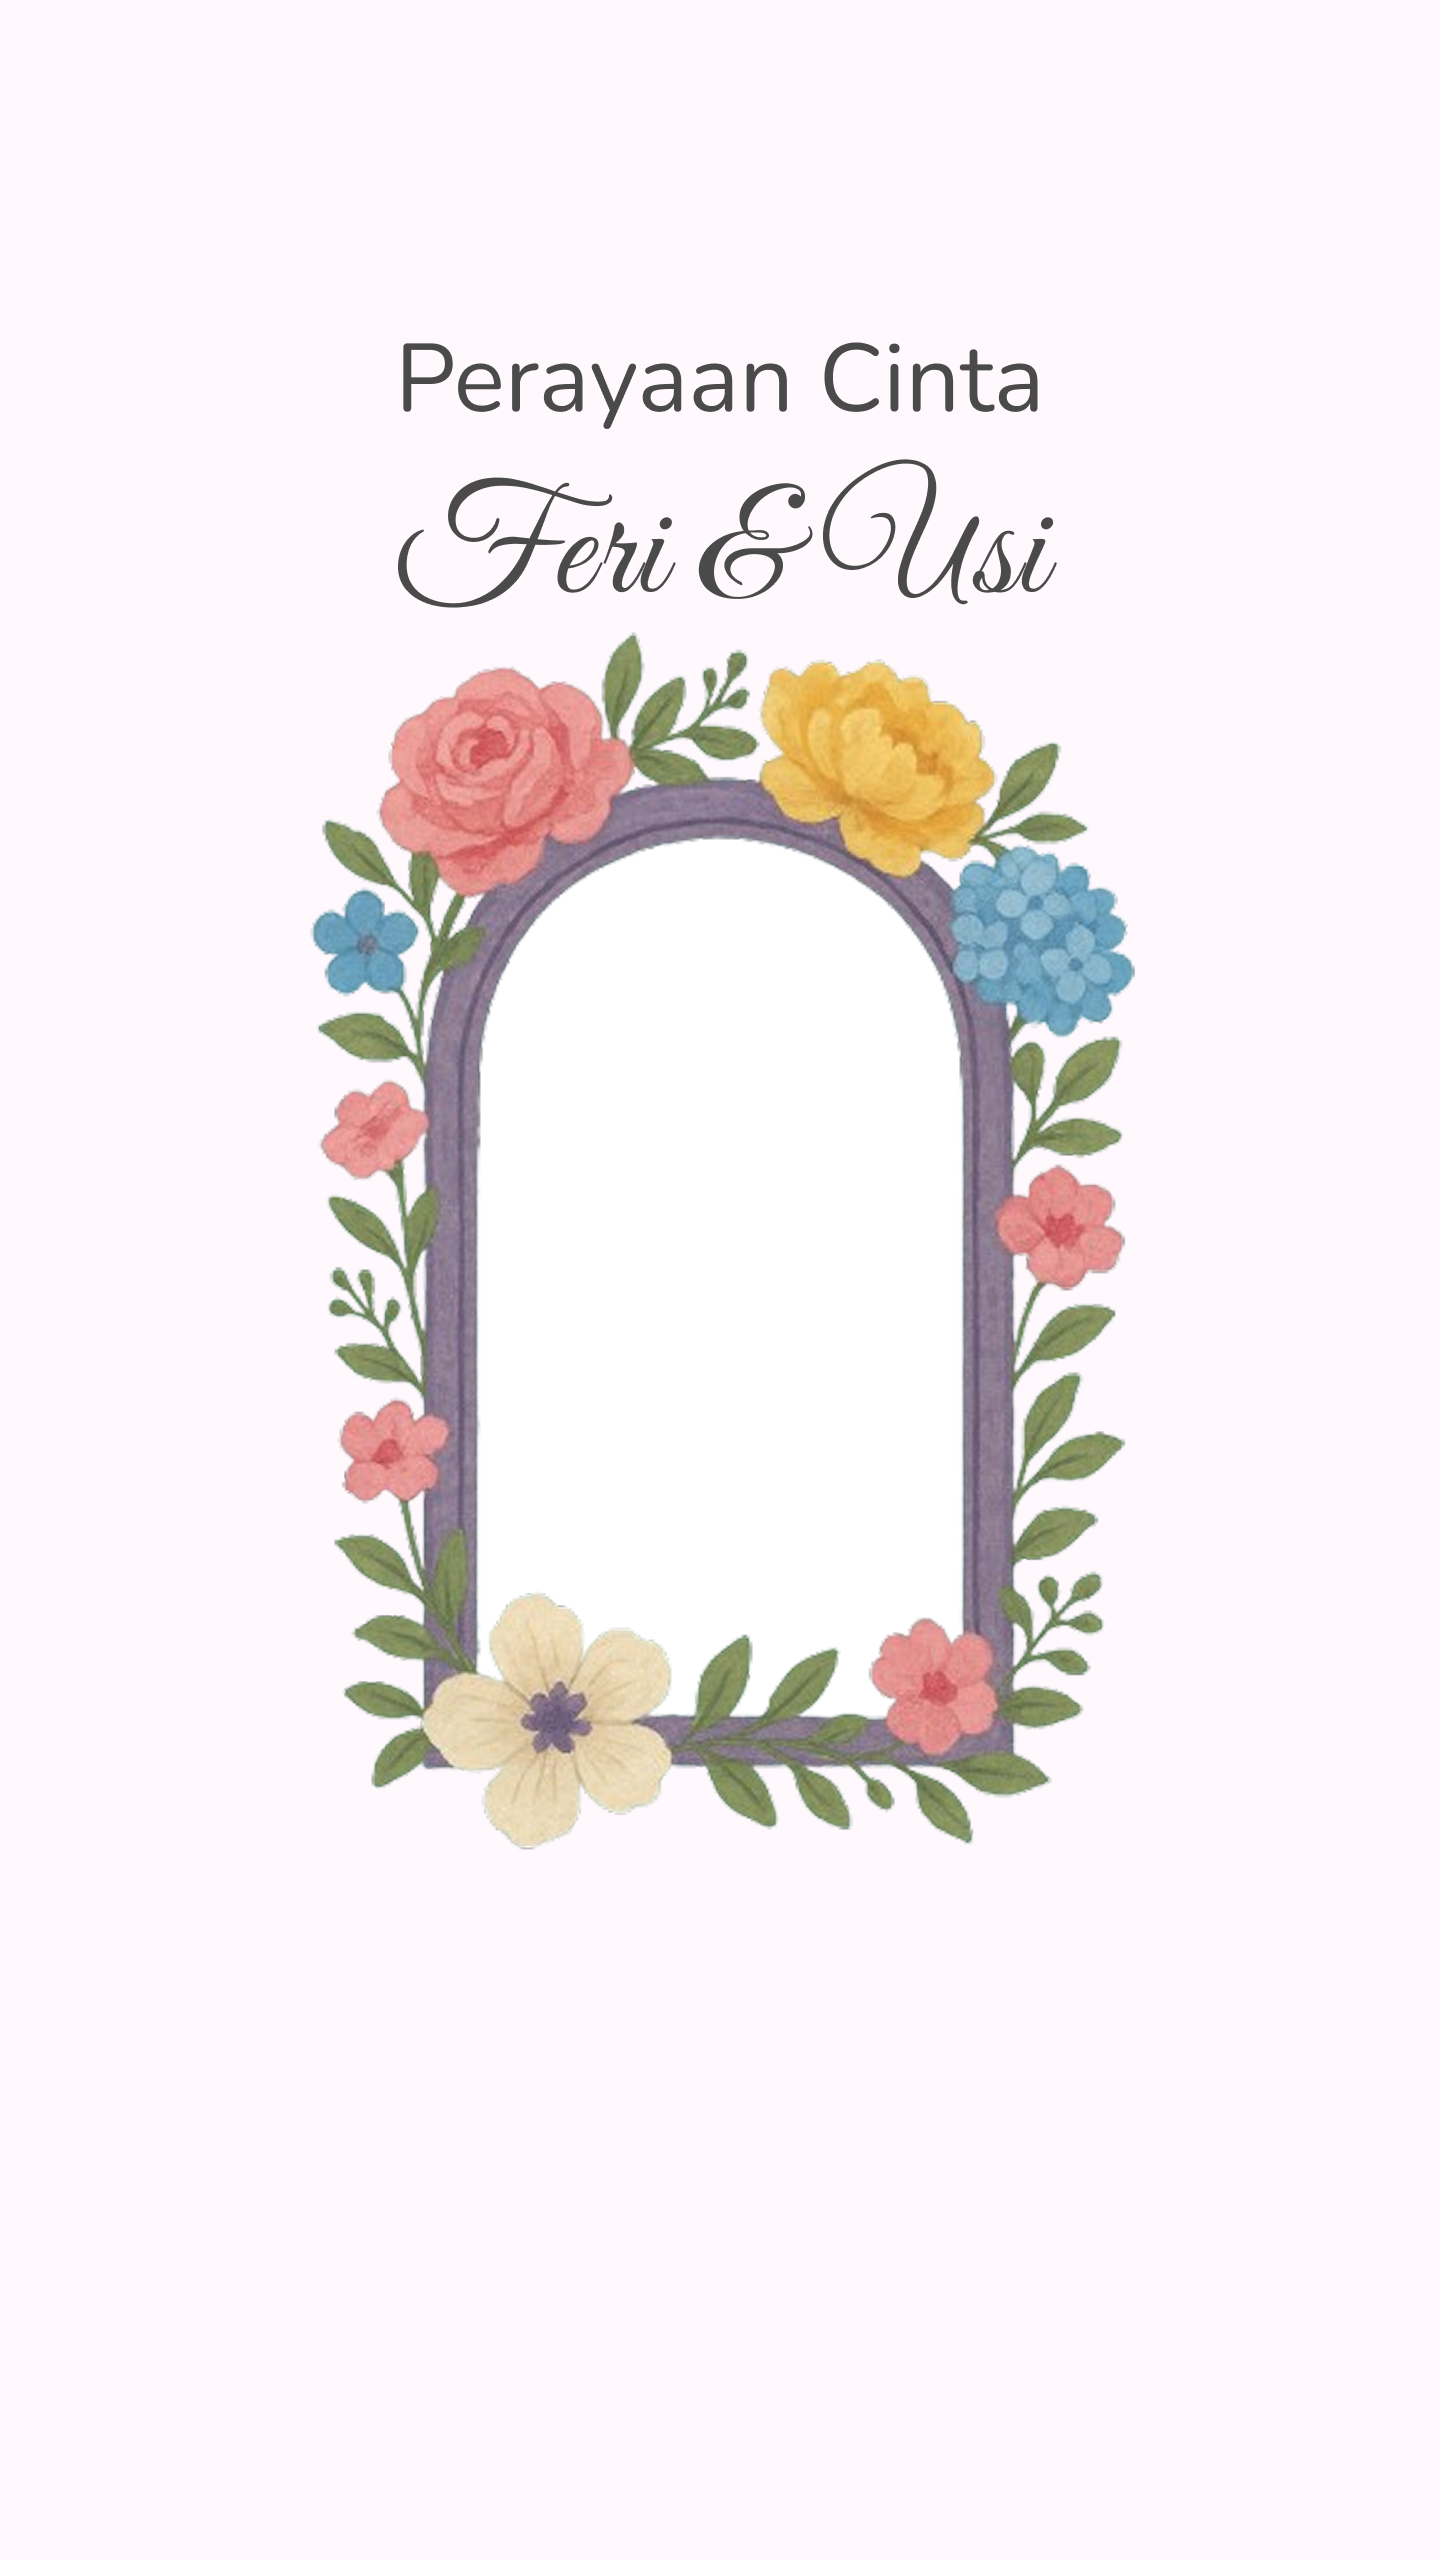
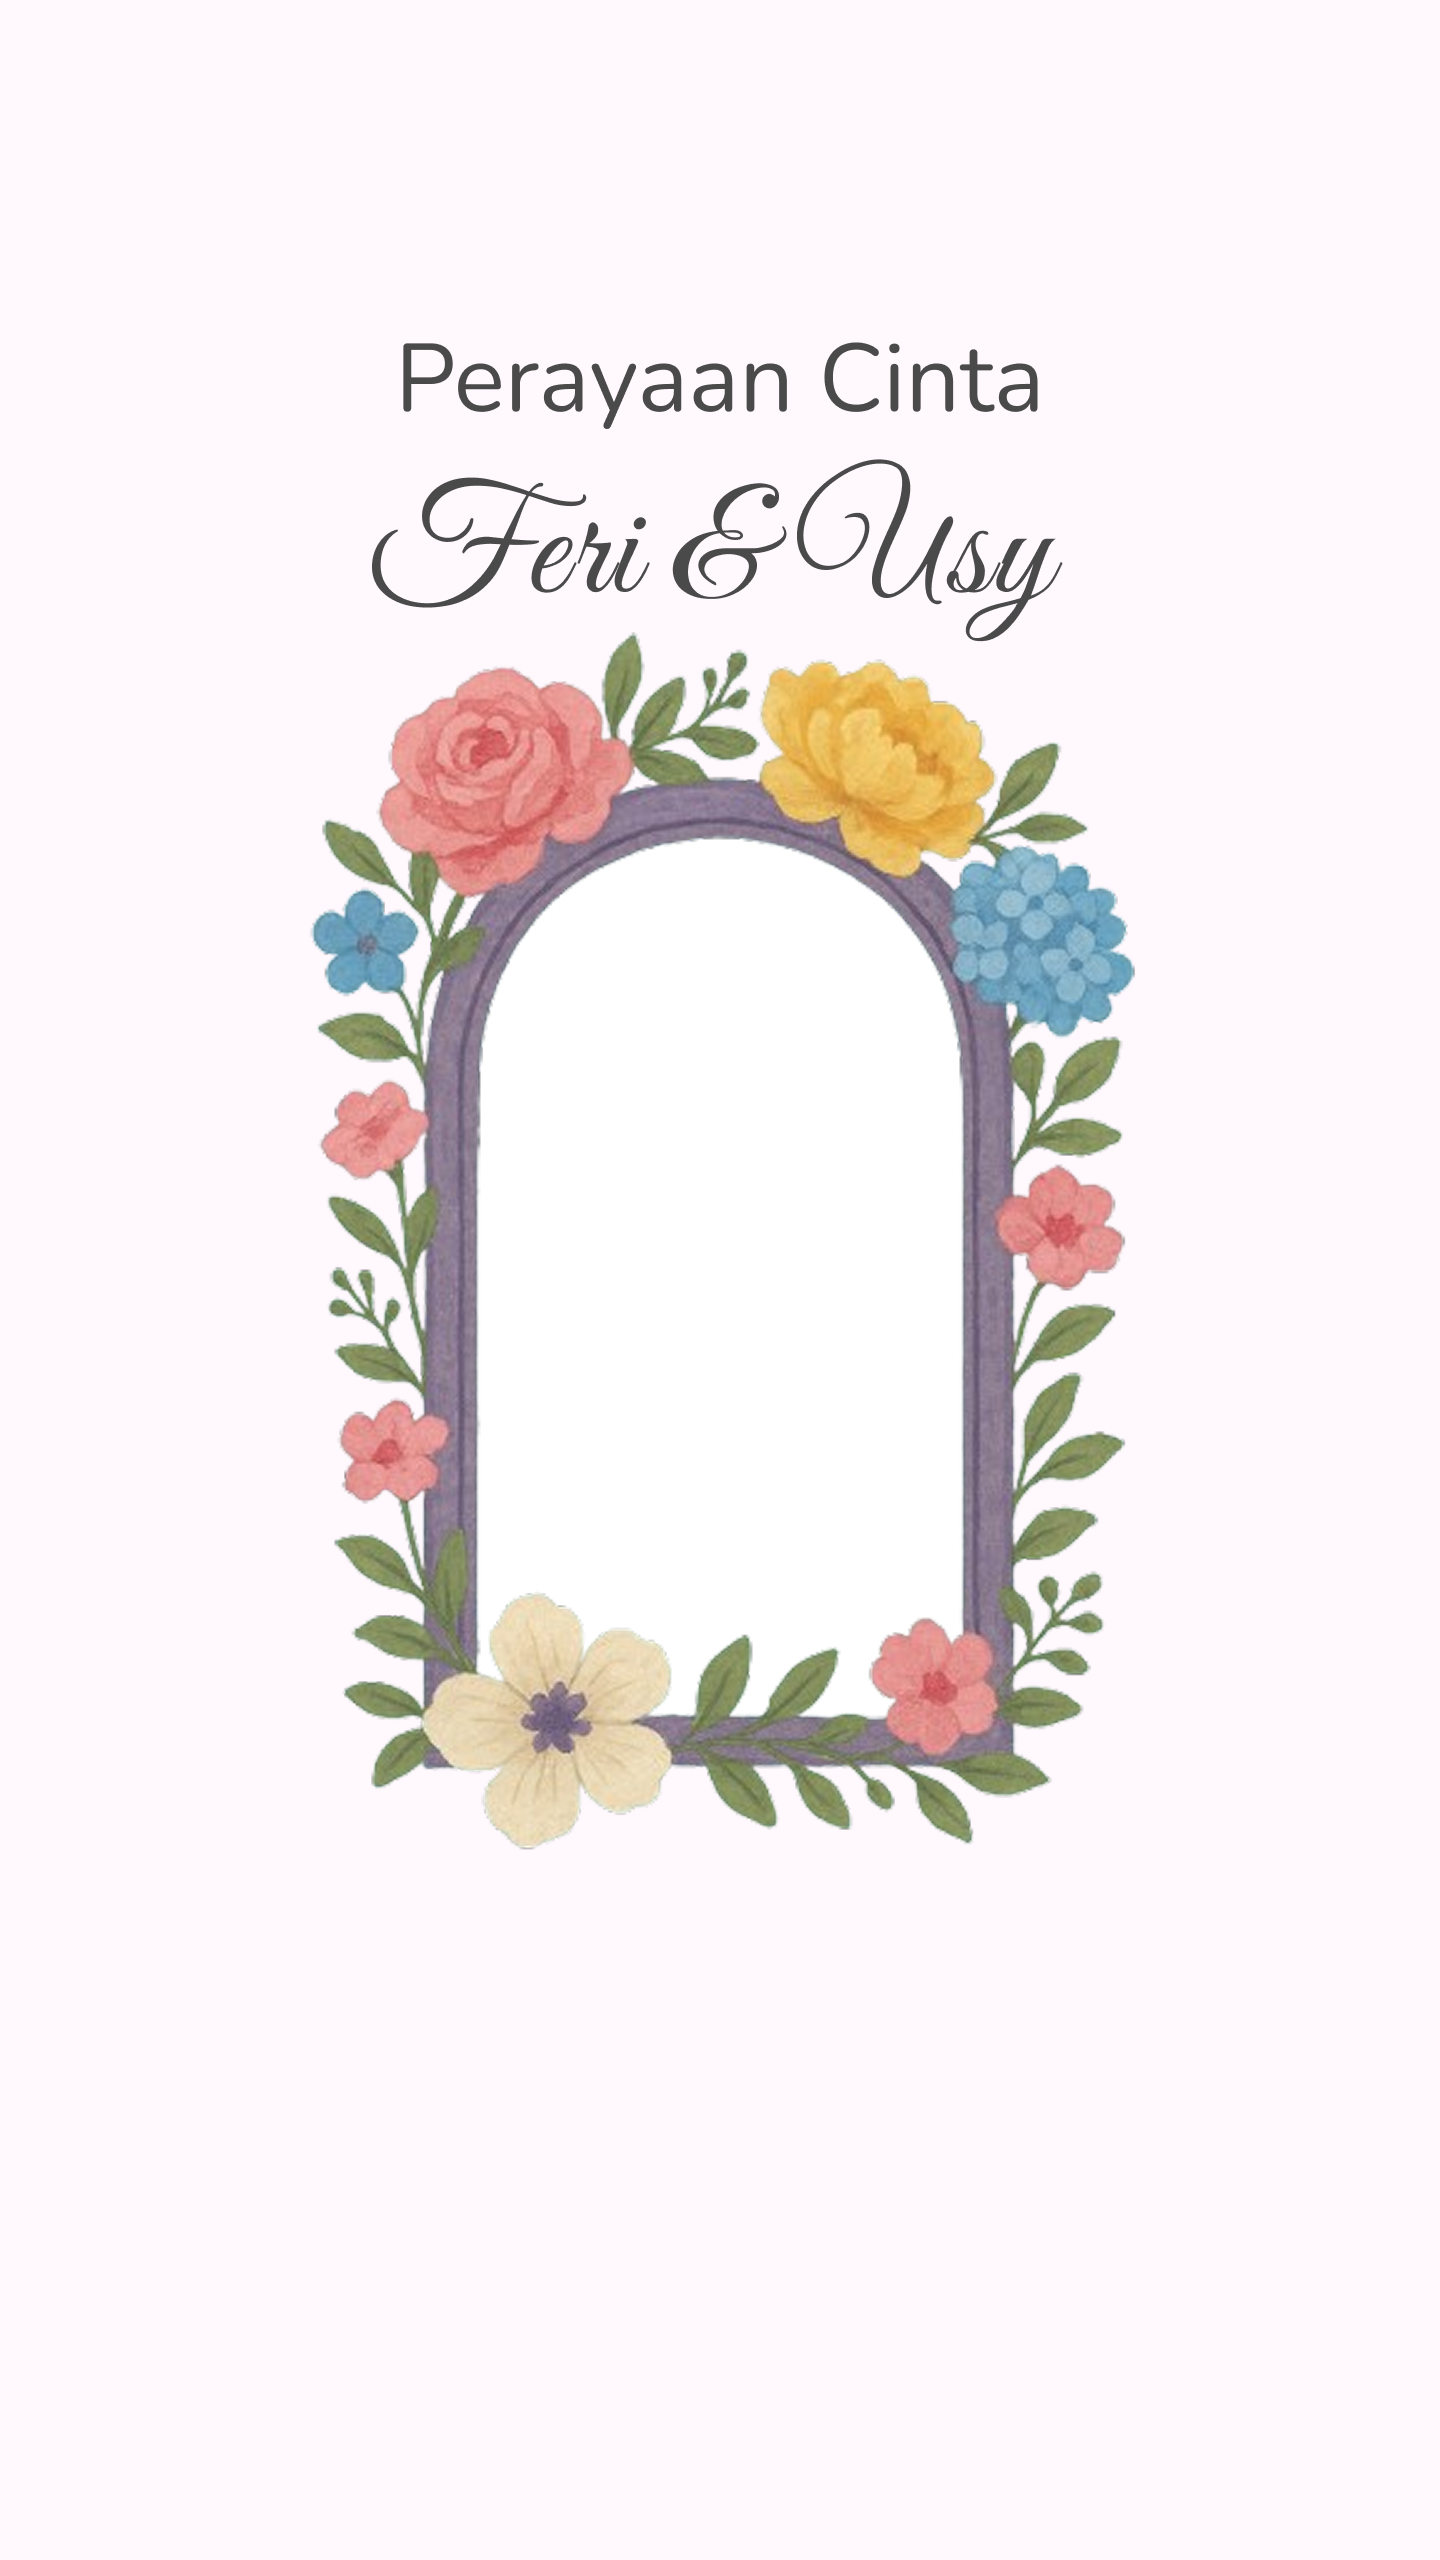
fixing music & cover

Changed region(s): [[0.25, 0.1562, 0.7188, 0.25]]

diff --git a/src/App.tsx b/src/App.tsx
@@ -145,210 +145,7 @@ const MusicPlayer: React.FC = () => {
   );
 };
 
-// Komponen Halaman Sampul Awal
-// interface CoverPageProps {
-//   invitedName: string;
-//   onOpenInvitation: () => void;
-// }
-
-// const CoverPage: React.FC<CoverPageProps> = ({
-//   invitedName,
-//   onOpenInvitation,
-// }) => {
-//   const [startZoom, setStartZoom] = useState(false);
-//   const [showContent, setShowContent] = useState(false);
-
-//   return (
-//     <div className="relative h-screen w-screen overflow-hidden bg-[url('assets/Main-bg.png')] bg-cover bg-center">
-//       {/* Background tetap diam */}
-//       <div className="absolute inset-0"></div>
-
-//       {/* Cover PNG dengan efek zoom */}
-//       <AnimatePresence>
-//         {!showContent && (
-//           <motion.div
-//             className="absolute inset-0 flex flex-col items-center justify-center bg-white/10 z-20"
-//             initial={{ opacity: 1 }}
-//             animate={{ opacity: startZoom ? 0 : 1 }}
-//             exit={{ opacity: 0 }}
-//             transition={{ duration: 2 }}
-//           >
-//             {/* PNG cover */}
-//             <motion.img
-//               src="assets/entrance.png"
-//               alt="Cover Window"
-//               className="relative w-screen h-screen object-contain"
-//               initial={{ scale: 1 }}
-//               animate={
-//                 startZoom ? { scale: 3, opacity: 0 } : { scale: 1, opacity: 1 }
-//               }
-//               transition={{ duration: 2, ease: "easeInOut" }}
-//               onAnimationComplete={() => {
-//                 if (startZoom) setShowContent(true);
-//               }}
-//             />
-
-//             {/* Tombol Buka Undangan */}
-//             {!startZoom && (
-//               <button
-//                 onClick={() => setStartZoom(true)}
-//                 className="absolute bottom-20 px-6 py-3 bg-pink-200 text-pink-800 rounded-full shadow-lg hover:scale-105 transition"
-//               >
-//                 Buka Undangan
-//               </button>
-//             )}
-//           </motion.div>
-//         )}
-//       </AnimatePresence>
-
-//       {/* Konten undangan muncul setelah animasi selesai */}
-//       {showContent && (
-//         <motion.div
-//           className="relative z-10 flex flex-col items-center justify-center h-full text-center text-white"
-//           initial={{ opacity: 0 }}
-//           animate={{ opacity: 1 }}
-//           transition={{ duration: 1 }}
-//         >
-//           <h1 className="text-4xl mb-4">Our Story Begins Here</h1>
-//           <p className="text-2xl mb-6">You are invited, {invitedName}</p>
-//           <button
-//             onClick={onOpenInvitation}
-//             className="px-6 py-3 bg-pink-200 text-pink-800 rounded-full shadow-lg hover:scale-105 transition"
-//           >
-//             Lihat Detail Undangan
-//           </button>
-//         </motion.div>
-//       )}
-//     </div>
-//   );
-// };
-
-// Komponen Halaman Utama Undangan
-// interface MainInvitationProps {
-//   invitedName: string;
-// }
-
-// const MainInvitation: React.FC<MainInvitationProps> = ({ invitedName }) => {
-//   const [activeSection, setActiveSection] = useState("home");
-//   const sections = [
-//     { id: "pengantin", icon: <HandHeart size={20} />, label: "Home" },
-//     { id: "acara", icon: <Calendar size={20} />, label: "Acara" },
-//     { id: "lokasi", icon: <MapPin size={20} />, label: "Lokasi" },
-//     { id: "hadiah", icon: <Gift size={20} />, label: "Hadiah" },
-//   ];
-
-//   const [currentIndex, setCurrentIndex] = useState(0);
-
-//   useEffect(() => {
-//     const interval = setInterval(() => {
-//       setCurrentIndex((prevIndex) => (prevIndex + 1) % images.length);
-//     }, 2400);
-//     return () => clearInterval(interval);
-//   }, []);
-
-//   const scrollToSection = (id: string) => {
-//     setActiveSection(id);
-//     const element = document.getElementById(id);
-//     if (element) {
-//       element.scrollIntoView({ behavior: "smooth" });
-//     }
-//   };
-
-//   return (
-//     <div className="relative">
-//       <MusicPlayer />
-//       {/* Bagian Sampul Utama (tetap di atas) */}
-//       <section
-//         id="home"
-//         className={`relative w-screen flex flex-col items-center justify-center bg-cover bg-center text-white p-4 duration-1000`}
-//         style={{ height: "100dvh", minHeight: "100vh" }}
-//       >
-//         {images.map((img, index) => (
-//           <div
-//             key={index}
-//             className={`absolute inset-0 transition-opacity duration-1000 ease-out-in ${
-//               index === currentIndex ? "opacity-100 z-10" : "opacity-40 z-0"
-//             }`}
-//             style={{
-//               backgroundImage: `url(${img})`,
-//               backgroundSize: "cover",
-//               backgroundPosition: "center",
-//             }}
-//           >
-//             <div className="absolute inset-0 bg-black opacity-50"></div>
-//           </div>
-//         ))}
-//         <div className="relative z-20 flex flex-col items-center p-6 text-center max-w-lg mx-auto h-full">
-//           {/* Bagian Atas */}
-//           <div className="flex-1 flex flex-col justify-end">
-//             <h1 className="text-3xl sm:text-4xl md:text-6xl font-bold mb-2 animate-fade-in-down drop-shadow-lg">
-//               Perayaan Cinta
-//             </h1>
-//             <p className="text-4xl sm:text-5xl md:text-7xl font-great-vibes mb-4 animate-fade-in-up drop-shadow-lg">
-//               Feri & Usy
-//             </p>
-//           </div>
-
-//           {/* Spacer tengah untuk show background */}
-//           <div className="h-72 sm:h-88 md:h-104 lg:h-120 xl:h-136"></div>
-
-//           {/* Bagian Bawah */}
-//           <div className="flex-1 flex flex-col items-center justify-start">
-//             <p className="text-base sm:text-lg md:text-xl mb-2 animate-fade-in drop-shadow-md">
-//               Kepada Yth. Bapak/Ibu/Saudara/i:
-//             </p>
-//             <p className="text-2xl sm:text-3xl md:text-4xl font-semibold mb-6 animate-fade-in-slow drop-shadow-lg">
-//               {invitedName}
-//             </p>
-//           </div>
-//         </div>
-//       </section>
-//       {/* Konten Utama Undangan dengan background baru */}
-//       <div
-//         className="w-screen mx-auto px-4 py-12 relative z-10 bg-cover bg-center"
-//         style={{
-//           backgroundImage: `url(${mainBgImage})`,
-//           backgroundAttachment: "fixed",
-//         }}
-//       >
-//         <div className="relative z-20">
-//           {/* Pastikan konten di atas overlay */}
-//           <SectionPengantin />
-//           <CountdownTimer targetDate="2025-06-22T00:00:00" />
-//           <SectionAcara />
-//           <SectionLokasi />
-//           <SectionKirimHadiah />
-//           <Footer />
-//         </div>
-//       </div>
-
-//       <nav className="fixed bottom-4 left-1/2 -translate-x-1/2 w-[90%] max-w-md bg-[var(--color-primary)] text-white shadow-lg z-50 rounded-full py-1 px-4">
-//         <ul className="flex justify-evenly items-center w-full">
-//           {sections.map((section) => (
-//             <li key={section.id} className="flex-1 text-center">
-//               <button
-//                 onClick={() => scrollToSection(section.id)}
-//                 className={`flex flex-col items-center justify-center p-2 gap-0.5 min-w-[60px] sm:min-w-[72px] rounded-full border transition-all duration-300 ${
-//                   activeSection === section.id
-//                     ? "bg-white text-[var(--color-primary)] border-[var(--color-primary)]"
-//                     : "text-white border-transparent"
-//                 }`}
-//               >
-//                 <span className="w-5 h-5 flex items-center justify-center">
-//                   {section.icon}
-//                 </span>
-//                 <span className="mt-0.5 text-[11px] sm:text-xs h-5 overflow-hidden text-ellipsis whitespace-nowrap">
-//                   {section.label}
-//                 </span>
-//               </button>
-//             </li>
-//           ))}
-//         </ul>
-//       </nav>
-//     </div>
-//   );
-// };
-
+// Komponen Utama Undangan
 interface MainInvitationProps {
   invitedName: string;
 }
@@ -410,11 +207,11 @@ const MainInvitation: React.FC<MainInvitationProps> = ({ invitedName }) => {
               >
                 Buka Undangan
               </button>
-
             )}
           </motion.div>
         )}
       </AnimatePresence>
+      {startZoom && <MusicPlayer />}
 
       {/* MAIN CONTENT */}
       {showContent && (
@@ -442,7 +239,7 @@ const MainInvitation: React.FC<MainInvitationProps> = ({ invitedName }) => {
                 <h1 className="text-3xl sm:text-4xl md:text-6xl font-bold mb-2 drop-shadow-lg">
                   Perayaan Cinta
                 </h1>
-                <p className="text-4xl sm:text-5xl md:text-7xl font-great-vibes mb-4 drop-shadow-lg">
+                <p className="text-6xl sm:text-7xl md:text-8xl font-great-vibes mb-4 drop-shadow-lg">
                   Feri & Usy
                 </p>
               </div>
